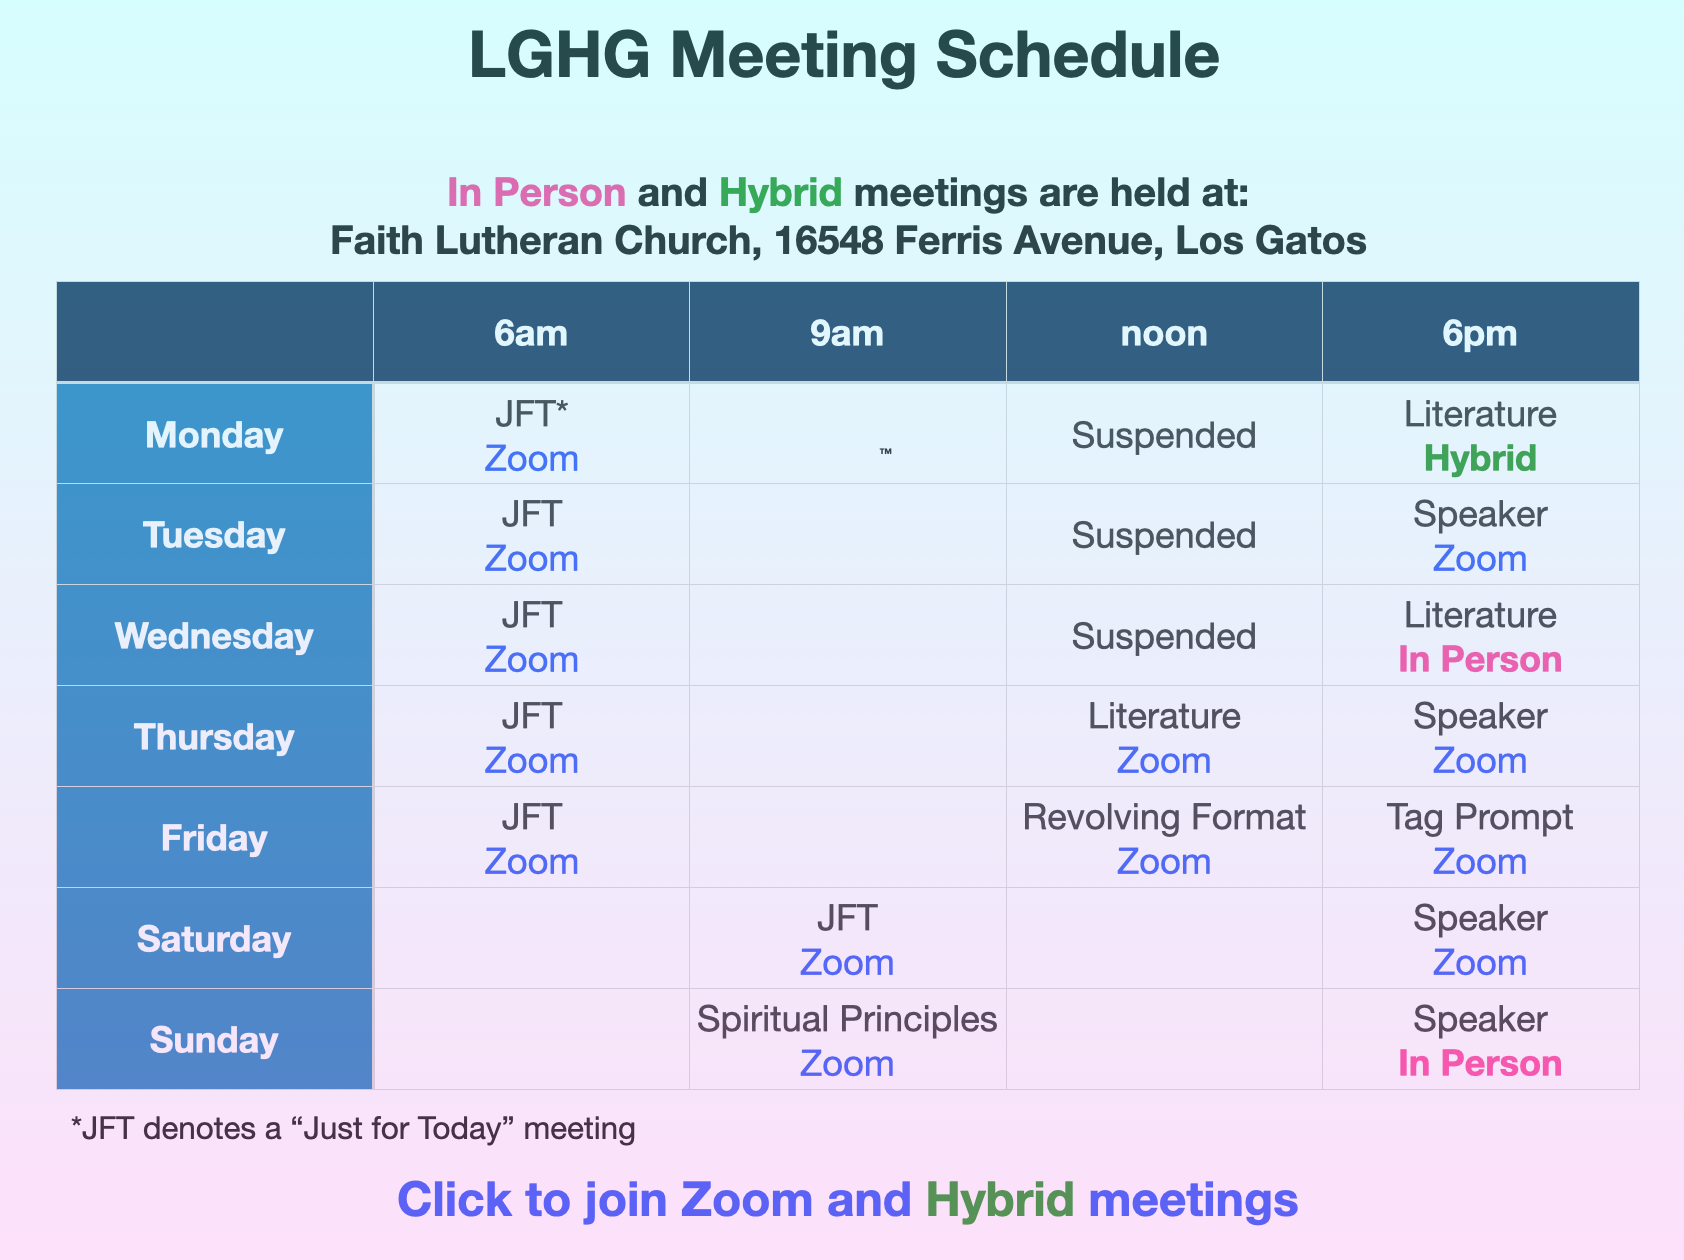
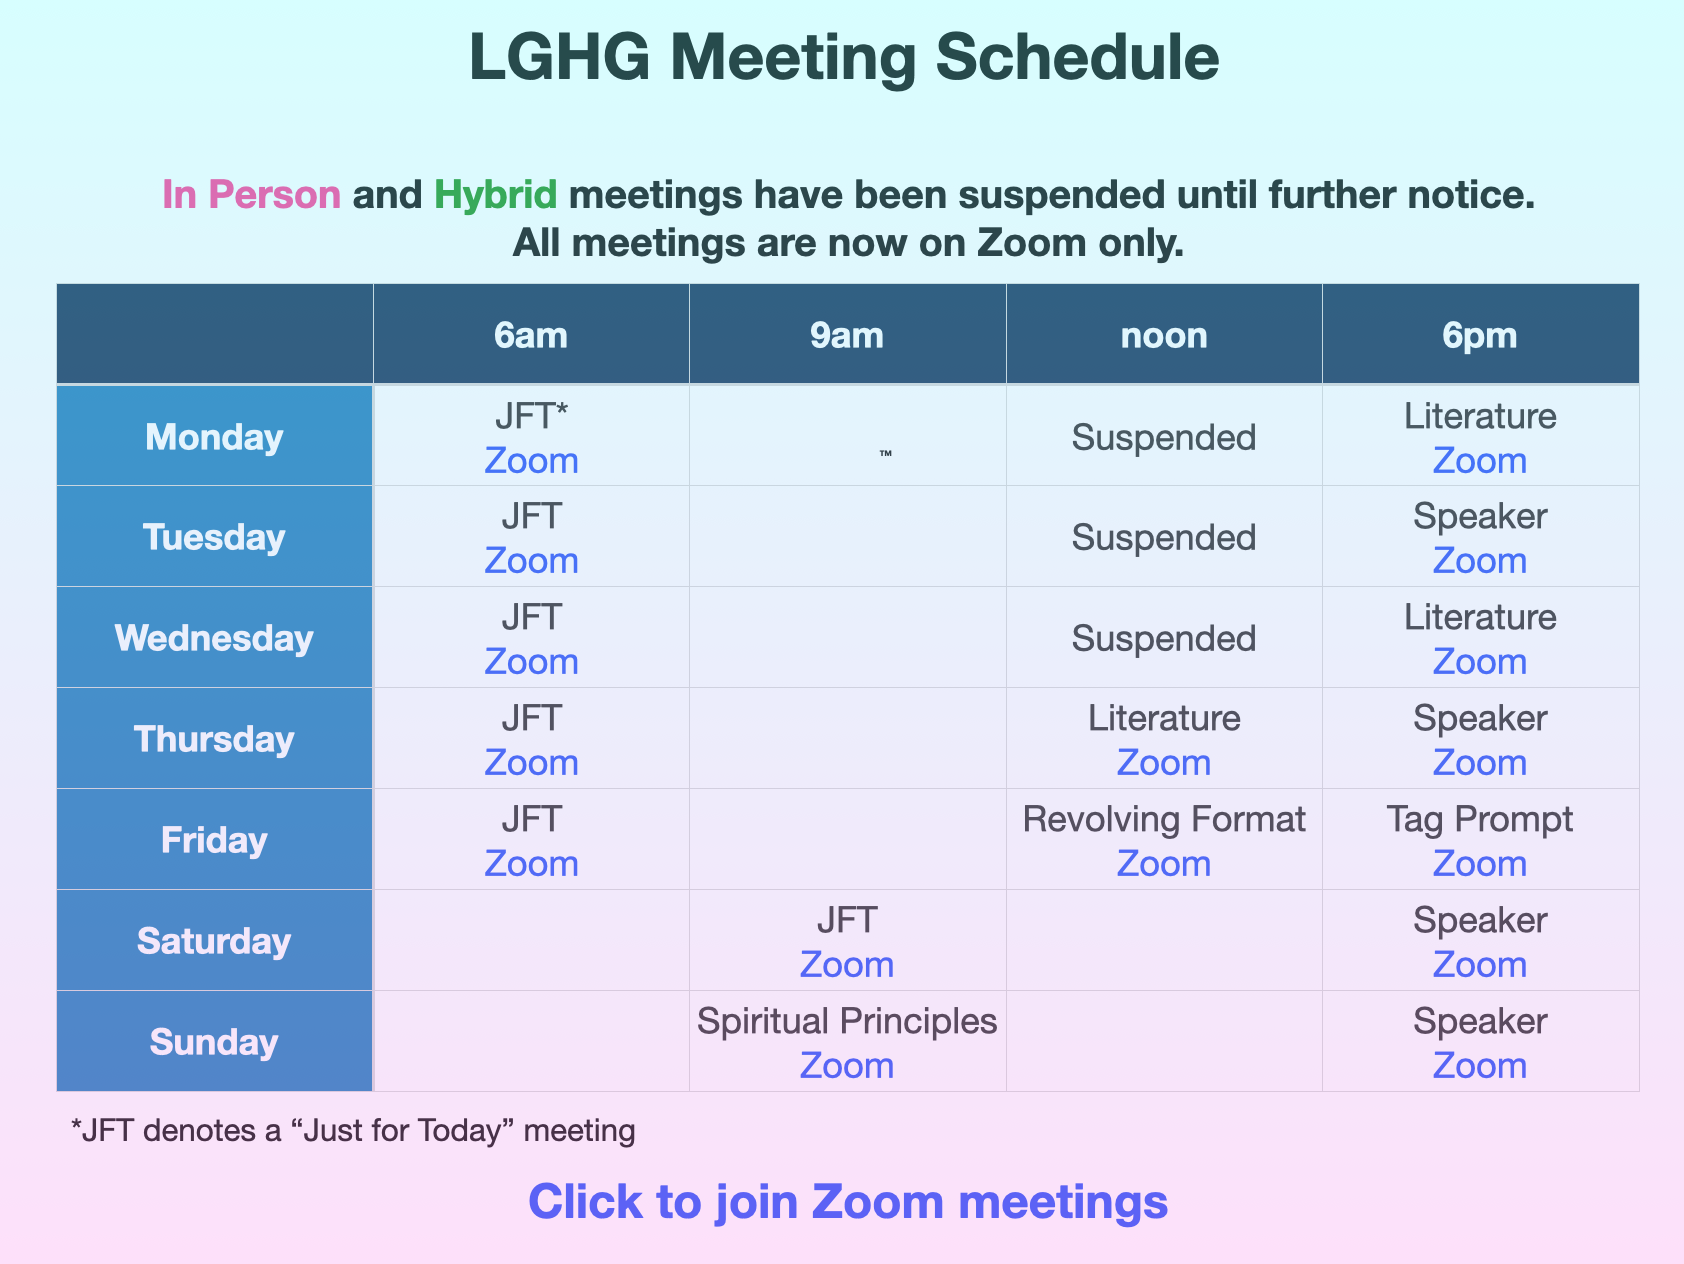
remove hybrid meetings

diff --git a/index.html b/index.html
@@ -134,12 +134,12 @@
 	    <b>
 		    Due to concerns about the recent spike in Covid-19 cases, Los Gatos Home Group will temporarily suspend all in-person and hybrid meetings. 
 		    Until further notice, the Monday 6PM hybrid meeting, and the Sunday 6PM and Wednesday 6PM meetings will be held on Zoom only on this Zoom link: <a href="https://zoom.us/j/526022691">https://zoom.us/j/526022691</a>. </b>
-	    <!--
+
 <div id="banner-image">
 <a href="https://zoom.us/j/526022691">
 <img width="550" src="images/meeting-schedule.png">
 </a>
-</div>-->
+</div>
       <br />
       <br />
       <p>Welcome to Los Gatos Home Group</p>
